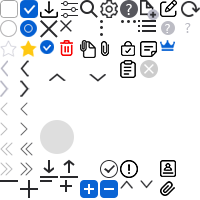
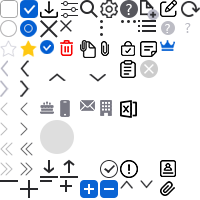
일반회원 컬럼 추가, 엑셀아이콘 수정, 이미지 수정

diff --git a/view/generalMember.html b/view/generalMember.html
@@ -145,7 +145,7 @@
                             <label for="license02" class="ml10">KOSA</label>
                         </div>
                         <button class="white mid-lowSize">
-                            <i class="ico download"></i>
+                            <i class="ico excDown"></i>
                             엑셀저장
                         </button>                        
                     </div>
@@ -190,6 +190,7 @@
                                     <th>정보처리</th>
                                     <th>KOSA</th>
                                     <th>가입일</th>
+                                    <th>상세</th>
                                     <th>이력서</th>
                                 </tr>
                             </thead>
@@ -212,6 +213,13 @@
                                     <td>Y</td>
                                     <td>Y</td>
                                     <td>부회원</td>
+                                    <!--230609 추가 -ys -->
+                                    <td>
+                                        <a href="#" target="_blank">
+                                            <i class="ico resume_b"></i>
+                                        </a>
+                                    </td>
+                                    <!--//230609 추가 -ys -->
                                     <td><i class="ico download"></i></td>
                                 </tr>                                 
                                 <tr>
@@ -232,6 +240,11 @@
                                     <td>Y</td>
                                     <td>Y</td>
                                     <td>부회원</td>
+                                    <td>
+                                        <a href="#" target="_blank">
+                                            <i class="ico resume_b"></i>
+                                        </a>
+                                    </td>
                                     <td><i class="ico download"></i></td>
                                 </tr>                            
                                 <tr>
@@ -252,6 +265,11 @@
                                     <td>Y</td>
                                     <td>Y</td>
                                     <td>22/04/30</td>
+                                    <td>
+                                        <a href="#" target="_blank">
+                                            <i class="ico resume_b"></i>
+                                        </a>
+                                    </td>
                                     <td><i class="ico download"></i></td>
                                 </tr>                            
                                 <tr>
@@ -272,6 +290,11 @@
                                     <td>Y</td>
                                     <td>Y</td>
                                     <td>22/04/30</td>
+                                    <td>
+                                        <a href="#" target="_blank">
+                                            <i class="ico resume_b"></i>
+                                        </a>
+                                    </td>
                                     <td><i class="ico download"></i></td>
                                 </tr>                            
                                 <tr>
@@ -292,6 +315,11 @@
                                     <td>Y</td>
                                     <td>Y</td>
                                     <td>22/04/30</td>
+                                    <td>
+                                        <a href="#" target="_blank">
+                                            <i class="ico resume_b"></i>
+                                        </a>
+                                    </td>
                                     <td><i class="ico download"></i></td>
                                 </tr>                            
                                 <tr>
@@ -312,6 +340,11 @@
                                     <td>Y</td>
                                     <td>Y</td>
                                     <td>22/04/30</td>
+                                    <td>
+                                        <a href="#" target="_blank">
+                                            <i class="ico resume_b"></i>
+                                        </a>
+                                    </td>
                                     <td><i class="ico download"></i></td>
                                 </tr>                            
                                 <tr>
@@ -332,6 +365,11 @@
                                     <td>Y</td>
                                     <td>Y</td>
                                     <td>22/04/30</td>
+                                    <td>
+                                        <a href="#" target="_blank">
+                                            <i class="ico resume_b"></i>
+                                        </a>
+                                    </td>
                                     <td><i class="ico download"></i></td>
                                 </tr>                            
                                 <tr>
@@ -352,6 +390,11 @@
                                     <td>Y</td>
                                     <td>Y</td>
                                     <td>22/04/30</td>
+                                    <td>
+                                        <a href="#" target="_blank">
+                                            <i class="ico resume_b"></i>
+                                        </a>
+                                    </td>
                                     <td><i class="ico download"></i></td>
                                 </tr>                            
                                 <tr>
@@ -372,6 +415,11 @@
                                     <td>Y</td>
                                     <td>Y</td>
                                     <td>22/04/30</td>
+                                    <td>
+                                        <a href="#" target="_blank">
+                                            <i class="ico resume_b"></i>
+                                        </a>
+                                    </td>
                                     <td><i class="ico download"></i></td>
                                 </tr>                                                       
                                 <tr>
@@ -392,6 +440,11 @@
                                     <td>Y</td>
                                     <td>Y</td>
                                     <td>22/04/30</td>
+                                    <td>
+                                        <a href="#" target="_blank">
+                                            <i class="ico resume_b"></i>
+                                        </a>
+                                    </td>
                                     <td><i class="ico download"></i></td>
                                 </tr>
                             </tbody>

diff --git a/assets/scss/_partial/_icon.scss b/assets/scss/_partial/_icon.scss
@@ -14,6 +14,12 @@
     //     height: rem(18);
     //     background-position: -80px 0px;
     // }    
+    &.excDown{
+        width: rem(18);
+        height: rem(18);
+        background-position: -120px -100px;
+        vertical-align: -3px;
+    }
     &.download{        
         width: rem(18);
         height: rem(18);
@@ -103,7 +109,11 @@
         width: rem(16);
         height: rem(17);
         background-position: -180px -160px;
-
+    }
+    &.resume_b{
+        width: rem(16);
+        height: rem(17);
+        background-position: -160px -160px;
     }
     &.more{
         width: rem(3); 
@@ -166,6 +176,7 @@
         height: rem(34);
         background-position: -60px -60px;
     }
+
     //카운팅 up, down
     &.up{
         width: rem(13);
@@ -267,19 +278,19 @@
     }
 }
 /* HEADER 아이콘 */
-.header{
-    .ico{
-        width: rem(24);
-        height: rem(24);
-        background-image: url(../img/icoGnb.png);
-        &.info{        
-            background-position: 0px 0px;
-        } 
-        &.setting{        
-            background-position: 30px 30px;
-        }
-    }
-}
+// .header{
+//     .ico{
+//         width: rem(24);
+//         height: rem(24);
+//         background-image: url(../img/icoGnb.png);
+//         &.info{        
+//             background-position: 0px 0px;
+//         } 
+//         &.setting{        
+//             background-position: 30px 30px;
+//         }
+//     }
+// }
 
 /* GNB 아이콘 */
 .gnb{

diff --git a/view/projProgList.html b/view/projProgList.html
@@ -150,7 +150,7 @@
 
                         
                         <button class="white mid-lowSize">
-                            <i class="ico download"></i>
+                            <i class="ico excDown"></i>
                             엑셀저장
                         </button>
                     </div>
